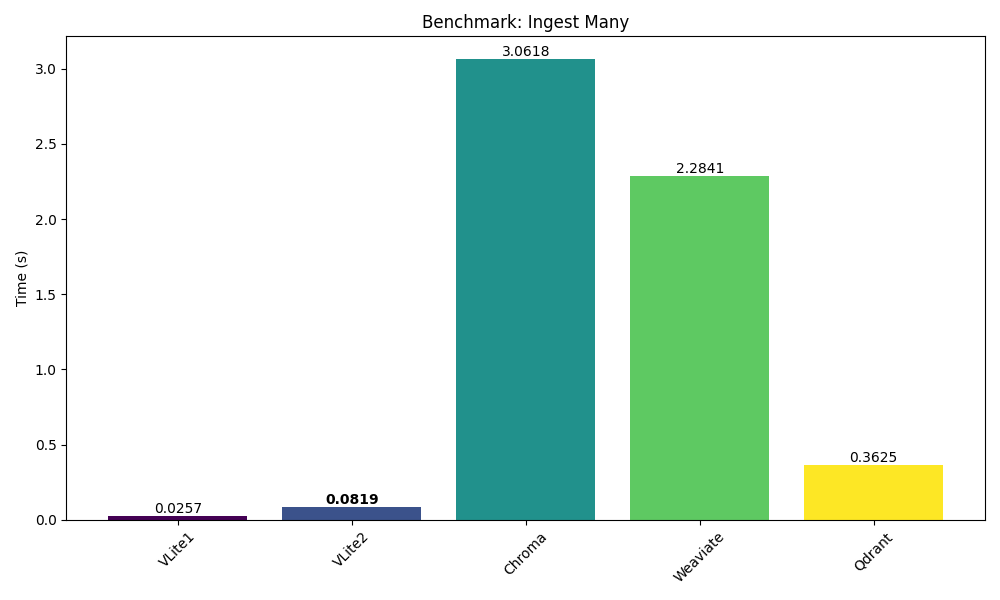
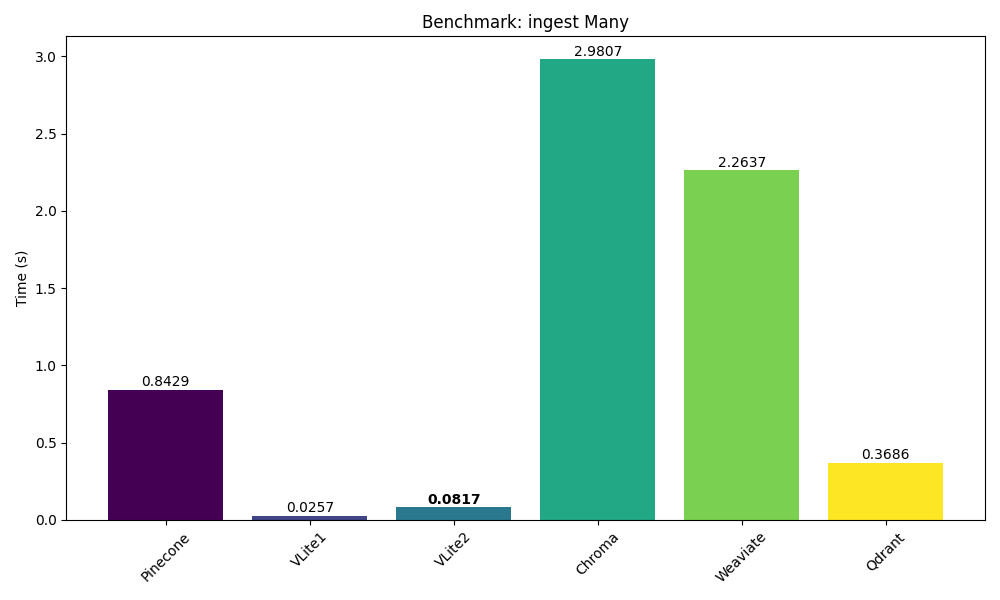
RESULTS WITH PINECONE

diff --git a/README.md b/README.md
@@ -8,11 +8,13 @@ continue benchmarking or develop new ones, contact me [here](mailto:ray@cerebral
 
 # Methodology
 All benchmarks are based on the [original vlite tests](https://github.com/sdan/vlite/blob/master/tests/bench.py), and are definitely not scientifically rigorous. **The
-goal here is to simulate what a typical user would do when spinning up a RAG app for local, project, or small production use.** All the below results are from 100 averaged iterations on a 16GB M2 Macbook Pro *not* plugged into power. Pinecone and Weaviate running *remotely* as 
-they would be when starting a new project. Chunking and chopping is normalized across all tests (same function used for all tests). The same embedding model
+goal here is to simulate what a typical user would do when spinning up a RAG app for local, project, or small production use.** 
+Thus, for managed servies running remotely (Pinecone and Weaviate), we use the base free version. 
+All the below results are from 100 averaged iterations on a 16GB M2 Macbook Pro plugged into power. 
+Chunking and chopping is normalized across all tests (same function used for all tests). The same embedding model
 (all-MiniLM-L6-v2) used across all tests as well (except chroma, where default embedding function used, but this is actually still all-MiniLM-L6-v2 on the backend per [this](https://docs.trychroma.com/embeddings)). All tests are designed to be the fastest possible methods for ingestion and retrieval in each given database per the latest documentation for [Weaviate](https://weaviate.io/developers/weaviate/manage-data/import), [Pinecone](https://docs.pinecone.io/docs/upsert-data), [Chroma](https://docs.trychroma.com/usage-guide), and [Qdrant](https://github.com/qdrant/qdrant-client). If these are not the fastest methods a typical user would use to ingest or retrieve from the database, please let me know!
 
-Tests:
+**Tests Conducted:**
 * ingest One: time to ingest one constant entry into the database
 * ingest Many: time to ingest many texts from a corpus into the database
 * retrieve One: given a query, time to retrieve the top result when there is only *one* entry in the database
@@ -23,12 +25,12 @@ All entries used to retrieve and ingest found in [constants.py](./constants.py).
 # Comparisons
 We compare many different vector *databases*. A vector database is a wrapper around a vector index. We are *not* benchmarking vector indexes, as the
 average user starting out does not directly inference the index, but rather a pre-built, ready-to-use database.
-* VLite
-* VLite2
-* Chroma
-* Pinecone
-* Weaviate
-* Qdrant
+* VLite (local)
+* VLite2 (local)
+* Chroma (local)
+* Pinecone (managed)
+* Weaviate (managed)
+* Qdrant (local)
 
 # Results
 ![ingest One](./results/benchmark_1_Ingest%20One.png)
